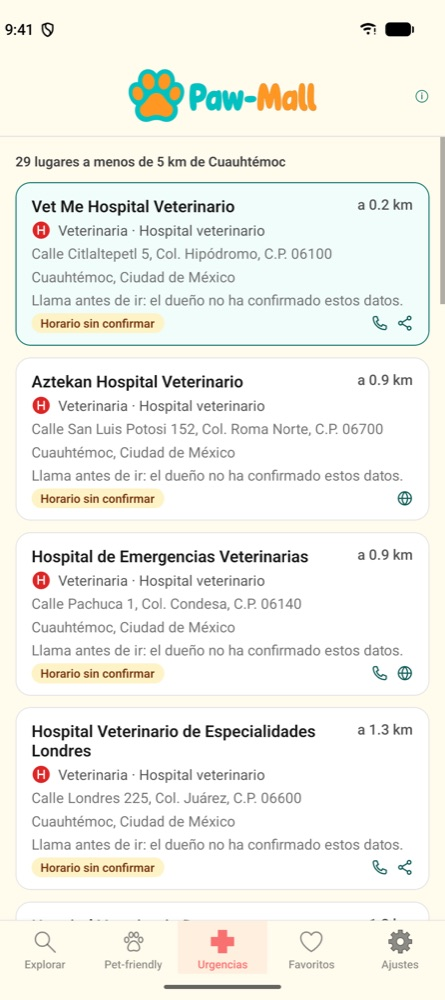
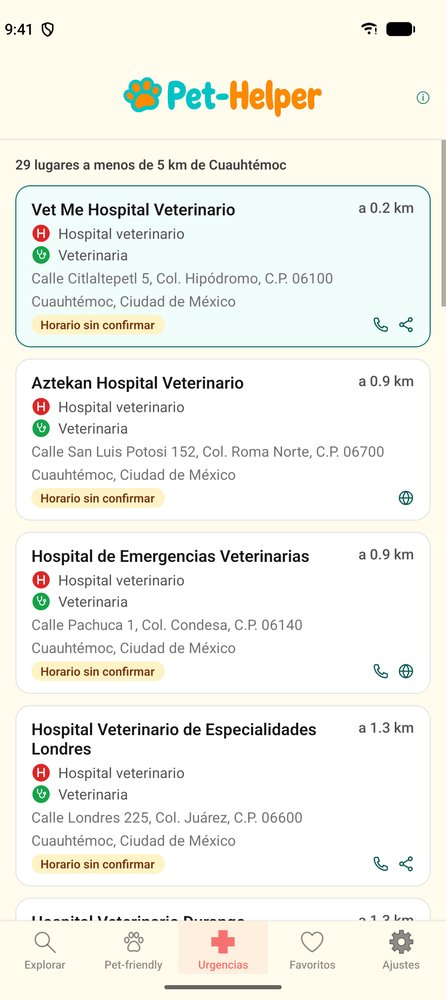
Record the Phase 23 merge commit in the rollout log (#42)
* Record the Phase 23 merge commit in the rollout log

* Record the removal of the pre-rename backups

* Record the Android map key's app restriction

* Retake the README screenshots with the Pet Helper logo

Same six screens on each platform, in Colonia Condesa with the full development data: the
Android release build on the emulator and Expo Go on the iOS simulator.

* Remove the app's previous name from code and docs

The notes about the previous name, the guard test's old-name check and the steps for migrating
a pre-rename checkout are gone, and the rollout log's history uses the current names. Two
mentions were split across lines (a code comment in pet-policy.ts and ARCHITECTURE.md). Only the
Google Cloud project ID, which can't change, keeps it.

---------

diff --git a/packages/shared/src/pet-policy.ts b/packages/shared/src/pet-policy.ts
@@ -60,8 +60,8 @@ export type PetPolicyInput = z.infer<typeof petPolicyInputSchema>;
 
 /**
  * Who stated the policy: the verified owner, the team from a public source (one venue, or a chain's
- * policy for all its branches), the business's own website, OpenStreetMap's contributors, or Paw
- * Mall's users (PET_ANSWERS_TO_PUBLISH phones agreeing).
+ * policy for all its branches), the business's own website, OpenStreetMap's contributors, or Pet
+ * Helper's users (PET_ANSWERS_TO_PUBLISH phones agreeing).
  */
 export const PET_POLICY_SOURCES = [
   'owner',

diff --git a/apps/mobile/app.config.ts b/apps/mobile/app.config.ts
@@ -1,6 +1,6 @@
 import type { ExpoConfig } from 'expo/config';
 
-// The app's name, the same in every language (owner's decision, 2026-10-15; was "Paw Mall"). The
+// The app's name, the same in every language (owner's decision, 2026-10-15). The
 // store bundle ID is still an open decision.
 const config: ExpoConfig = {
   name: 'Pet Helper',

diff --git a/apps/mobile/src/i18n/app-name.test.ts b/apps/mobile/src/i18n/app-name.test.ts
@@ -18,7 +18,6 @@ describe('app name in translations', () => {
     for (const language of Object.values(resources)) {
       for (const text of strings(language)) {
         expect(text).not.toContain(APP_NAME);
-        expect(text).not.toMatch(/paw mall/i);
       }
     }
   });

diff --git a/docs/DEPLOYMENT.md b/docs/DEPLOYMENT.md
@@ -1,6 +1,6 @@
 # Pet Helper — Rollout Log
 
-The project was called Paw Mall until Phase 23 (2026-10-15); entries before it keep the old name.
+The app took its current name in Phase 23 (2026-10-15); entries before it use the current names.
 
 Tracks the actual rollout of [PLAN.md](PLAN.md), phase by phase: what was built, on which branch
 and pull request, how it was checked, and what's left.
@@ -29,31 +29,31 @@ checked) · **Blocked**.
 
 ## Status at a glance
 
-| Phase | Name                  | Branch                       | PR  | Status    | Started    | Merged     |
-| ----- | --------------------- | ---------------------------- | --- | --------- | ---------- | ---------- |
-| 1     | Foundation            | `phase-1/foundation`         | #2  | Done      | 2026-10-05 | 2026-10-05 |
-| 2     | Pet businesses        | `phase-2/pet-businesses`     | #3  | Done      | 2026-10-05 | 2026-10-05 |
-| 3     | Search and map        | `phase-3/search-and-map`     | #4  | Done      | 2026-10-05 | 2026-10-05 |
-| 4     | Emergency vets        | `phase-4/emergency-vets`     | #5  | Done      | 2026-10-05 | 2026-10-05 |
-| 5     | Trust                 | `phase-5/trust`              | #6  | Done      | 2026-10-05 | 2026-10-06 |
-| 6     | Pet-friendly layer    | `phase-6/pet-friendly`       | #8  | Done      | 2026-10-10 | 2026-10-10 |
-| 7     | Tourism and museums   | `phase-7/tourism-museums`    | #9  | Done      | 2026-10-10 | 2026-10-10 |
-| 8     | Bug fixes             | `phase-8/bug-fixes`          | #11 | Done      | 2026-10-10 | 2026-10-11 |
-| 9     | Pet-friendly at scale | `phase-9/pet-friendly-scale` | #12 | Done      | 2026-10-10 | 2026-10-11 |
-| 10    | All of Mexico         | `phase-10/all-mexico`        | #14 | Done      | 2026-10-11 | 2026-10-12 |
-| 11    | Hardening             | `phase-11/hardening`         | #18 | Done      | 2026-10-13 | 2026-10-13 |
-| 12    | Failure coverage      | `phase-12/failure-coverage`  | #20 | Done      | 2026-10-13 | 2026-10-13 |
-| 13    | Load test             | `phase-13/load-test`         | #24 | Done      | 2026-10-14 | 2026-10-14 |
-| 14    | Data cleanup          | `phase-14/data-cleanup`      | #25 | Done      | 2026-10-14 | 2026-10-14 |
-| 15    | OSM vet phones        | `phase-15/osm-vet-phones`    | #27 | Done      | 2026-10-14 | 2026-10-14 |
-| 16    | Bug fixes 2           | `phase-16/bug-fixes`         | #28 | Done      | 2026-10-14 | 2026-10-14 |
-| 17    | Search benchmark      | `phase-17/search-benchmark`  | #31 | Done      | 2026-10-14 | 2026-10-14 |
-| 18    | Search gap fixes      | `phase-18/search-gaps`       | #33 | Done      | 2026-10-14 | 2026-10-14 |
-| 19    | Place with words      | `phase-19/service-in-place`  | #36 | Done      | 2026-10-14 | 2026-10-14 |
-| 20    | Full-text search      | `phase-20/full-text-search`  | #35 | Done      | 2026-10-14 | 2026-10-14 |
-| 21    | First-launch notice   | `phase-21/disclaimer`        | #38 | Done      | 2026-10-14 | 2026-10-15 |
-| 22    | Adoption and rescue   | `phase-22/animal-welfare`    | #39 | Done      | 2026-10-15 | 2026-10-15 |
-| 23    | Rename to Pet Helper  | `phase-23/rename`            | #41 | In review | 2026-10-15 | —          |
+| Phase | Name                  | Branch                       | PR  | Status | Started    | Merged     |
+| ----- | --------------------- | ---------------------------- | --- | ------ | ---------- | ---------- |
+| 1     | Foundation            | `phase-1/foundation`         | #2  | Done   | 2026-10-05 | 2026-10-05 |
+| 2     | Pet businesses        | `phase-2/pet-businesses`     | #3  | Done   | 2026-10-05 | 2026-10-05 |
+| 3     | Search and map        | `phase-3/search-and-map`     | #4  | Done   | 2026-10-05 | 2026-10-05 |
+| 4     | Emergency vets        | `phase-4/emergency-vets`     | #5  | Done   | 2026-10-05 | 2026-10-05 |
+| 5     | Trust                 | `phase-5/trust`              | #6  | Done   | 2026-10-05 | 2026-10-06 |
+| 6     | Pet-friendly layer    | `phase-6/pet-friendly`       | #8  | Done   | 2026-10-10 | 2026-10-10 |
+| 7     | Tourism and museums   | `phase-7/tourism-museums`    | #9  | Done   | 2026-10-10 | 2026-10-10 |
+| 8     | Bug fixes             | `phase-8/bug-fixes`          | #11 | Done   | 2026-10-10 | 2026-10-11 |
+| 9     | Pet-friendly at scale | `phase-9/pet-friendly-scale` | #12 | Done   | 2026-10-10 | 2026-10-11 |
+| 10    | All of Mexico         | `phase-10/all-mexico`        | #14 | Done   | 2026-10-11 | 2026-10-12 |
+| 11    | Hardening             | `phase-11/hardening`         | #18 | Done   | 2026-10-13 | 2026-10-13 |
+| 12    | Failure coverage      | `phase-12/failure-coverage`  | #20 | Done   | 2026-10-13 | 2026-10-13 |
+| 13    | Load test             | `phase-13/load-test`         | #24 | Done   | 2026-10-14 | 2026-10-14 |
+| 14    | Data cleanup          | `phase-14/data-cleanup`      | #25 | Done   | 2026-10-14 | 2026-10-14 |
+| 15    | OSM vet phones        | `phase-15/osm-vet-phones`    | #27 | Done   | 2026-10-14 | 2026-10-14 |
+| 16    | Bug fixes 2           | `phase-16/bug-fixes`         | #28 | Done   | 2026-10-14 | 2026-10-14 |
+| 17    | Search benchmark      | `phase-17/search-benchmark`  | #31 | Done   | 2026-10-14 | 2026-10-14 |
+| 18    | Search gap fixes      | `phase-18/search-gaps`       | #33 | Done   | 2026-10-14 | 2026-10-14 |
+| 19    | Place with words      | `phase-19/service-in-place`  | #36 | Done   | 2026-10-14 | 2026-10-14 |
+| 20    | Full-text search      | `phase-20/full-text-search`  | #35 | Done   | 2026-10-14 | 2026-10-14 |
+| 21    | First-launch notice   | `phase-21/disclaimer`        | #38 | Done   | 2026-10-14 | 2026-10-15 |
+| 22    | Adoption and rescue   | `phase-22/animal-welfare`    | #39 | Done   | 2026-10-15 | 2026-10-15 |
+| 23    | Rename to Pet Helper  | `phase-23/rename`            | #41 | Done   | 2026-10-15 | 2026-10-15 |
 
 ## Pending owner reviews
 
@@ -93,7 +93,7 @@ a task (and a note in the phase that applies it).
         from the LAN IP
   - [x] `expo export` bundles for iOS and Android
   - [x] Done-when check: Expo Go on the iPhone 17 Pro Max simulator (iOS 26.5) shows
-        "¡Bienvenido a Paw Mall!", "Conectado al servidor (versión 0.1.0)" and "Base de datos
+        "¡Bienvenido a Pet Helper!", "Conectado al servidor (versión 0.1.0)" and "Base de datos
         lista (PostGIS 3.6.4)"; the API logged `GET /health 200`
   - [x] Verified by the owner in Expo Go on a physical iPhone and a physical Android phone
 - **Notes:**
@@ -201,7 +201,7 @@ a task (and a note in the phase that applies it).
     buttons), search box, list rows, place page, directions chooser, Settings (language, radius
     and units, contact filters), location with the Zócalo fallback, offline banner, and the API's
     search (word by word over name, city and state, typo-tolerant) and map clustering.
-  - New for Paw Mall: category chips (Todos, Veterinarias, Hospitales, Tiendas, Estéticas,
+  - New for Pet Helper: category chips (Todos, Veterinarias, Hospitales, Tiendas, Estéticas,
     Pensiones, Forrajerías, Servicios públicos) filtering both list and map; pins and dots
     colored by category; the "24 horas" name hint shown as unconfirmed; attribution for INEGI
     (with the edition date) and Overture Maps Foundation in the list, place page and Settings.
@@ -219,7 +219,7 @@ a task (and a note in the phase that applies it).
   - No app icon yet: Expo logs "Asset not found: assets/icon.png" (harmless in Expo Go); add
     icons with the app store readiness work.
   - Favoritos tab: not in any phase of PLAN.md; schedule it with the owner.
-  - The simulator had English saved as Paw Mall's language (from Phase 1's language switch), so
+  - The simulator had English saved as Pet Helper's language (from Phase 1's language switch), so
     it opens in English there; Settings switches it.
 
 ### Phase 4 — Emergency vets
@@ -247,8 +247,8 @@ a task (and a note in the phase that applies it).
         card. Taps can't be automated here, so this was handed to the owner, who approved the
         merge on 2026-10-05 without reporting problems.
 - **Notes:**
-  - **Owner decision (2026-10-05):** "Ver horario" uses a **new Google Cloud project for Paw
-    Mall**, not Ferre Mall's, since Ferre Mall may not resume soon. Setup steps are in
+  - **Owner decision (2026-10-05):** "Ver horario" uses a **new Google Cloud project for Pet
+    Helper**, not Ferre Mall's, since Ferre Mall may not resume soon. Setup steps are in
     `docs/GOOGLE-PLACES.md`; the key goes in `apps/api/.dev.vars` (gitignored), never in chat
     or a commit. Until then "Ver horario" says hours aren't available.
   - **No place has confirmed hours yet:** DENUE and Overture don't publish hours. Confirmed hours
@@ -314,7 +314,7 @@ a task (and a note in the phase that applies it).
     species treated can come later).
   - Adopted from Ferre Mall: the claim form (without the SAT section), claim review command,
     closed reports with the 3-phones-in-90-days rule, report review command, verified badge.
-  - New for Paw Mall: "Reportar maltrato animal" (hides after 2 phones, pending review); vet
+  - New for Pet Helper: "Reportar maltrato animal" (hides after 2 phones, pending review); vet
     answers in claims (open 24 hours replaces the name hint with an owner answer; takes
     emergencies), shown only for vets; overnight hours in the claim form; a privacy line on every
     report confirm ("no enviamos tu ubicación ni tus datos"); API rejects any extra field on a
@@ -678,7 +678,7 @@ a task (and a note in the phase that applies it).
     test places use source `curated`. `pnpm places:curated` removes every curated place not in its
     file, so running it during a test run deleted the test place and the Google tests found
     nothing (`expected null`). Tests also wrote to and deleted real rows (the Google usage
-    counters, old lookups). Tests now use their own database, `paw_mall_test` on the same Docker
+    counters, old lookups). Tests now use their own database, `pet_helper_test` on the same Docker
     server, created and migrated by the test setup (`apps/api/test/test-db.ts`, shared by the
     API and importer runs, with a lock so parallel runs don't migrate at once). Override with
     `TEST_DATABASE_URL`.
@@ -693,7 +693,7 @@ a task (and a note in the phase that applies it).
 - **Scope:** OpenStreetMap dog parks, parks and venues with a dog rule; DENUE restaurants and
   cafés in Ciudad de México with users' "¿Acepta mascotas?" answers making their policy.
 - **Done when:** a name search in Pet-friendly finds an unanswered restaurant, two phones
-  answering yes make it appear under Restaurantes with "Según usuarios de Paw Mall", and
+  answering yes make it appear under Restaurantes with "Según usuarios de Pet Helper", and
   OpenStreetMap is credited on its places.
 - **Branch / PR:** `phase-9/pet-friendly-scale` / #12, stacked on Phase 8 (#11); rebased onto
   `main` after #11 merged.
@@ -860,7 +860,7 @@ places` at the end. Place searches ("Guadalajara", "Monterrey", "Mérida", "Tiju
     question only for a typed place name sent with the search key.
   - **"Mi ubicación":** the button returns to the user at the smallest preset; off after a place
     pick, "as a place", moving, zooming or a cluster tap; on after "as a business name".
-  - **Android:** development build with Paw Mall's own Maps key (`dev.pawmall.app`,
+  - **Android:** development build with Pet Helper's own Maps key (`dev.pethelper.app`,
     `apps/mobile/.env.local`); `pnpm --filter mobile emulator:location`.
   - **Testing and CI:** Maestro flows in `apps/mobile/.maestro/`, test data `pnpm e2e:seed`;
     `.github/workflows/ci.yml` (every PR) and `e2e.yml` (nightly, manual or `run-e2e` label);
@@ -879,7 +879,7 @@ places` at the end. Place searches ("Guadalajara", "Monterrey", "Mérida", "Tiju
 
 ### Phase 11 — Hardening
 
-- **Scope:** recommendations 1–4 of an external review (`Paw_Mall_Project_Review.pdf`, 2026-10-13):
+- **Scope:** recommendations 1–4 of an external review (a project review PDF, 2026-10-13):
   rate limits on writes, CORS, a data-integrity report, a verification status per place.
 - **Branch / PR:** `phase-11/hardening` / #18
 - **Status:** Done. Squash-merged into `main` as `bf1d4e7` on 2026-10-13; branch deleted.
@@ -912,7 +912,7 @@ places` at the end. Place searches ("Guadalajara", "Monterrey", "Mérida", "Tiju
     (same name within 50 m, mostly DENUE twins a few metres apart), 0 invalid hours, **165
     Urgencias places without a phone**, **5 "24 horas" vets known only from the name**, 0 stale
     sources, websites or policies, 0 places without a category, empty review queue.
-  - `@paw-mall/shared/hours` subpath export: Node runs the importer CLIs' TypeScript directly and
+  - `@pet-helper/shared/hours` subpath export: Node runs the importer CLIs' TypeScript directly and
     can't load the package index.
 - **Follow-ups:**
   - Decide what to do with the 5,782 probable duplicates (merge rule, or hide the newer twin).
@@ -920,7 +920,7 @@ places` at the end. Place searches ("Guadalajara", "Monterrey", "Mérida", "Tiju
     and `data/osm-hours.json`; left as is.
   - Review items 5–7 (E2E gaps, failure tests, load test) are the next candidate phase.
 - **CI fix:** the first CI run failed in `pet-policies.test.ts`: the importer and API tests share
-  `paw_mall_test` in parallel, and `osm/hours.test.ts` puts places with partial hours within the
+  `pet_helper_test` in parallel, and `osm/hours.test.ts` puts places with partial hours within the
   pet-policy test's 1 km around (2, −131) (also behind a `main` failure earlier on 2026-10-13).
   The pet-policy test now uses its own spot at −137.
 
@@ -1377,11 +1377,13 @@ places` at the end. Place searches ("Guadalajara", "Monterrey", "Mérida", "Tiju
 
 ### Phase 23 — Rename to Pet Helper
 
-- **Scope:** the owner's decision (2026-10-15): "Paw Mall" becomes "Pet Helper" everywhere, in
-  the repo and outside it. The name is the same in Spanish and English; everything around it stays
-  translated.
+- **Scope:** the owner's decision (2026-10-15): the app's previous name becomes "Pet Helper"
+  everywhere, in the repo and outside it. The name is the same in Spanish and English; everything
+  around it stays translated.
 - **Branch / PR:** `phase-23/rename` / #41
-- **Status:** In review.
+- **Status:** Done. Squash-merged into `main` as `a2cb2ca` on 2026-10-15; branch deleted. The
+  pre-rename database volume and image and the previous Android key in `apps/mobile/.env.local`
+  were removed after the merge; the log's history and the docs now use only the current names.
 - **Checks:**
   - [x] `pnpm lint`, `pnpm typecheck`, `pnpm i18n:check`
   - [x] `pnpm test`: 404 tests (shared 42, mobile 105, api 112, importers 145)
@@ -1399,9 +1401,9 @@ places` at the end. Place searches ("Guadalajara", "Monterrey", "Mérida", "Tiju
     `PetHelper`.
   - **Database:** user `pet_helper`, databases `pet_helper`, `pet_helper_test` and
     `pet_helper_e2e`, renamed in place; Compose project `pet-helper` (fixed name), image
-    `pet-helper-postgres:17`, data copied to the volume `pet-helper_db-data`. The old volume
-    `paw-mall_db-data` is kept as a backup until the phase is merged.
-  - **Docs:** current docs renamed; this log's history and the diaries keep the old name.
+    `pet-helper-postgres:17`, data copied to the volume `pet-helper_db-data`; the old volume was
+    kept as a backup until the merge.
+  - **Docs:** current docs renamed.
   - **GitHub:** the repo is `dienarvaez1/pet-helper` (renamed 2026-10-15; the old URL
     redirects), and `origin` points at it.
   - **Google Cloud:** the project `paw-mall-app` is now named "Pet Helper" (the ID can't change).
@@ -1409,12 +1411,8 @@ places` at the end. Place searches ("Guadalajara", "Monterrey", "Mérida", "Tiju
   - **Logo:** the owner's "Pet-Helper" logo, fitted to the header's 720 × 240 transparent PNG
     (`apps/mobile/assets/images/logo.png`); its turquoise (#00C4C6) matches the old one, so the
     button colors stay.
-- **Open:**
-  - The Android map now uses `paw-mall-app`'s "Maps Platform API Key" (the previous key in
-    `apps/mobile/.env.local` wasn't in this project). It has no application restriction: restrict
-    it to `dev.pethelper.app` + the debug SHA-1 once nothing else uses it (owner).
-  - The old volume `paw-mall_db-data` and the previous key in `apps/mobile/.env.local`: remove
-    them once the merge and the new key are confirmed.
+- **Open:** none. The Android map uses `paw-mall-app`'s key "Pet Helper Android maps (dev)",
+  restricted to `dev.pethelper.app` + the debug SHA-1 after the merge (2026-10-15).
 
 ## Production deployment
 
@@ -1480,3 +1478,4 @@ Play readiness").
 | 2026-10-15 | Phase 21 merged (`dd74573`)                                  | #38 |
 | 2026-10-15 | Phase 22 merged (`ebfe35b`)                                  | #39 |
 | 2026-10-15 | Phase 23 started                                             | #41 |
+| 2026-10-15 | Phase 23 merged (`a2cb2ca`)                                  | #41 |

diff --git a/docs/PLAN.md b/docs/PLAN.md
@@ -273,12 +273,12 @@ with a check you can run on your phone. Finish and commit one phase before start
     - Done when: the reviewed DENUE places show under "Adopción y rescate", municipal control
       centers stay out of it, and the benchmark shows no regression.
 
-23. **Rename to Pet Helper (added 2026-10-15, owner's decision).** "Paw Mall" becomes "Pet
-    Helper" everywhere: the app's name (the same in Spanish and English; translations insert it as
-    `{{appName}}`), packages `@pet-helper/*`, the Android package `dev.pethelper.app`, the
+23. **Rename to Pet Helper (added 2026-10-15, owner's decision).** The app's previous name becomes
+    "Pet Helper" everywhere: the app's name (the same in Spanish and English; translations insert
+    it as `{{appName}}`), packages `@pet-helper/*`, the Android package `dev.pethelper.app`, the
     databases `pet_helper`, `pet_helper_test` and `pet_helper_e2e`, and, outside the repo, the
     Maps key restriction, the Google Cloud project's name, the GitHub repo and the local folder.
-    - Done when: no "Paw Mall" is left outside the history, checks and the benchmark pass on the
+    - Done when: the previous name is left nowhere, checks and the benchmark pass on the
       renamed database, and every flow passes on a new Android development build.
 
 **Later:** business model (featured listings, pet brands, pet-friendly hotels), app store readiness
@@ -319,7 +319,7 @@ Copy these rules into `CLAUDE.md` at the repo root.
 | Decision                        | Default assumed                                                                | Why it matters                                                                       |
 | ------------------------------- | ------------------------------------------------------------------------------ | ------------------------------------------------------------------------------------ |
 | Repo visibility                 | Private                                                                        | Public exposes plans and data work                                                   |
-| App name and bundle ID          | "Pet Helper" (owner, 2026-10-15; was "Paw Mall"); no store bundle ID yet       | Hard to change after store release                                                   |
+| App name and bundle ID          | "Pet Helper" (owner, 2026-10-15); no store bundle ID yet                       | Hard to change after store release                                                   |
 | Region                          | All of Mexico (from Phase 10)                                                  | Data volume and the map center                                                       |
 | Shared code with Ferre Mall     | Copy now, extract a package later                                              | Avoids coupling two young projects                                                   |
 | Who uses it                     | Pet owners, no login                                                           | Owner claims and policy confirmations work without accounts; reviews would need them |

diff --git a/docs/DEVELOPMENT.md b/docs/DEVELOPMENT.md
@@ -183,34 +183,6 @@ recall 97%, p95 47 ms, no regression.
 3. Credit the source in the app (`settings.dataSources` and wherever its data shows).
 4. Document the step in this guide and in CLAUDE.md's Local setup.
 
-## Updating a checkout from before the rename
-
-The project was called Paw Mall until Phase 23 (2026-10-15). A machine set up before it needs,
-once, after pulling:
-
-```sh
-git remote set-url origin https://github.com/dienarvaez1/pet-helper.git
-pnpm install                     # links @pet-helper/* in place of @paw-mall/*
-docker compose -p paw-mall down  # stops the old container; its volume stays
-docker volume create pet-helper_db-data
-docker run --rm --entrypoint sh -v paw-mall_db-data:/from -v pet-helper_db-data:/to \
-  postgres:17 -c 'cp -a /from/. /to/'
-docker compose up -d --wait      # the Compose project is now always "pet-helper"
-docker exec pet-helper-db-1 psql -U paw -d postgres \
-  -c "CREATE ROLE rename_admin SUPERUSER LOGIN"
-docker exec pet-helper-db-1 psql -U rename_admin -d postgres \
-  -c "ALTER ROLE paw RENAME TO pet_helper" -c "ALTER ROLE pet_helper PASSWORD 'pet_helper'" \
-  -c "ALTER DATABASE paw_mall RENAME TO pet_helper" \
-  -c "ALTER DATABASE paw_mall_test RENAME TO pet_helper_test" \
-  -c "ALTER DATABASE paw_mall_e2e RENAME TO pet_helper_e2e"
-docker exec pet-helper-db-1 psql -U pet_helper -d postgres -c "DROP ROLE rename_admin"
-```
-
-Stop any `wrangler dev` or Metro still running from before, and restart them. On Android,
-uninstall `dev.pawmall.app` and rebuild (`npx expo prebuild --platform android --clean`, then
-`pnpm --filter mobile android:dev`): the new package starts with empty favorites and settings.
-Once everything works, `docker volume rm paw-mall_db-data` frees the old copy.
-
 ## Troubleshooting
 
 | Symptom                                                                           | Fix                                                                                                  |

diff --git a/README.md b/README.md
@@ -1,6 +1,6 @@
 # Pet Helper
 
-Pet Helper (called Paw Mall until 2026-10-15) is a mobile app for pet owners in Mexico. It answers two everyday
+Pet Helper is a mobile app for pet owners in Mexico. It answers two everyday
 questions:
 
 - **Where's the pet business I need?** Vets and vet hospitals, pet stores, boutiques, groomers,
@@ -120,10 +120,9 @@ pnpm --filter mobile start             # Metro; scan the QR code with Expo Go
 
 ## Screenshots
 
-Taken on 2026-10-14 in Colonia Condesa, Mexico City, with the full development data. Android is
+Taken on 2026-10-15 in Colonia Condesa, Mexico City, with the full development data. Android is
 the release build on the emulator (Pixel 10, Google Maps); iOS is Expo Go on the simulator
-(iPhone 17 Pro Max, Apple Maps). They predate the rename and still show the Paw-Mall logo.
-[docs/USER-GUIDE.md](docs/USER-GUIDE.md) describes each screen.
+(iPhone 17 Pro Max, Apple Maps). [docs/USER-GUIDE.md](docs/USER-GUIDE.md) describes each screen.
 
 | Screen                                                                     | Android                                                             | iOS                                                             |
 | -------------------------------------------------------------------------- | ------------------------------------------------------------------- | --------------------------------------------------------------- |

diff --git a/docs/GOOGLE-PLACES.md b/docs/GOOGLE-PLACES.md
@@ -67,9 +67,9 @@ Expo Go's own Google Maps key is refused on recent Android emulators ("Authoriza
 Android runs as a **development build** with Pet Helper's own key, in the same Google Cloud project.
 iOS keeps Apple Maps and Expo Go.
 
-**Today (2026-10-15):** the build uses the project's "Maps Platform API Key", which has API
-restrictions but no application restriction yet. Restricting it as in step 2 is pending, once
-nothing else uses it.
+**Today (2026-10-15):** the key "Pet Helper Android maps (dev)" is restricted to Android app
+`dev.pethelper.app` with the debug SHA-1 below; its API restrictions allow Maps SDK for Android
+and Maps SDK for iOS (the iOS one is unused: iOS shows Apple Maps).
 
 1. **APIs & Services → Library:** enable **Maps SDK for Android**.
 2. **APIs & Services → Credentials → Create credentials → API key.** Edit it:

diff --git a/docs/ARCHITECTURE.md b/docs/ARCHITECTURE.md
@@ -203,8 +203,8 @@ before drawing: a map laid out at zero height opens on the whole world on Androi
 
 ### Map
 
-`ExploreScreen` → `PlacesMap`: Apple Maps on iOS (`mutedStandard`), Google Maps on Android (Paw
-Mall's own key in development builds; `MAPS_AVAILABLE` shows a notice instead of crashing without
+`ExploreScreen` → `PlacesMap`: Apple Maps on iOS (`mutedStandard`), Google Maps on Android (Pet
+Helper's own key in development builds; `MAPS_AVAILABLE` shows a notice instead of crashing without
 one). The map asks for places in the area actually on screen (it re-reads its boundaries after
 its own moves, since iOS doesn't always report them), draws the radius circle, pins and clusters
 (`cluster-size.ts`), and tells the user's hand moves from its own (`movedByHand`) to save a

diff --git a/CLAUDE.md b/CLAUDE.md
@@ -46,7 +46,7 @@ by screen), `docs/QA-STRATEGY.md` (quality objectives, risks and release gates).
 Defaults from "Open decisions" in `docs/PLAN.md`, until the owner says otherwise:
 
 - Repo visibility: private.
-- App name: "Pet Helper" (owner's decision 2026-10-15; was "Paw Mall"), the same in every
+- App name: "Pet Helper" (owner's decision 2026-10-15), the same in every
   language; translations insert it as `{{appName}}`. Don't set a store bundle ID.
 - Region: all of Mexico's 32 states (Phase 10, owner's decision 2026-10-11; before, the six
   central states plus Guerrero, Michoacán and Querétaro); locale `es-MX`.
